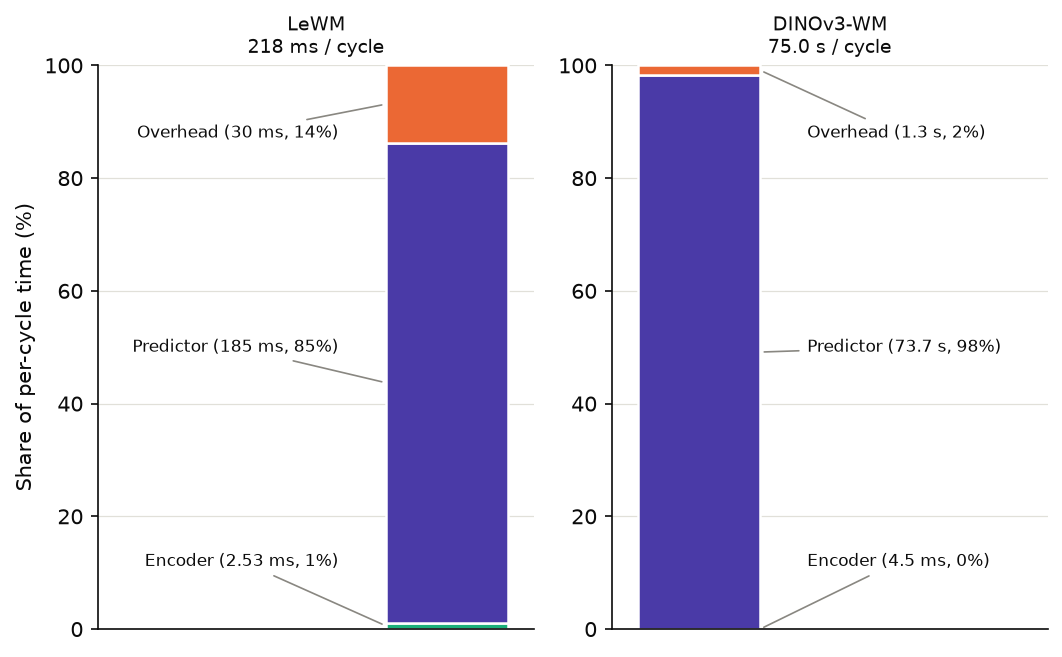
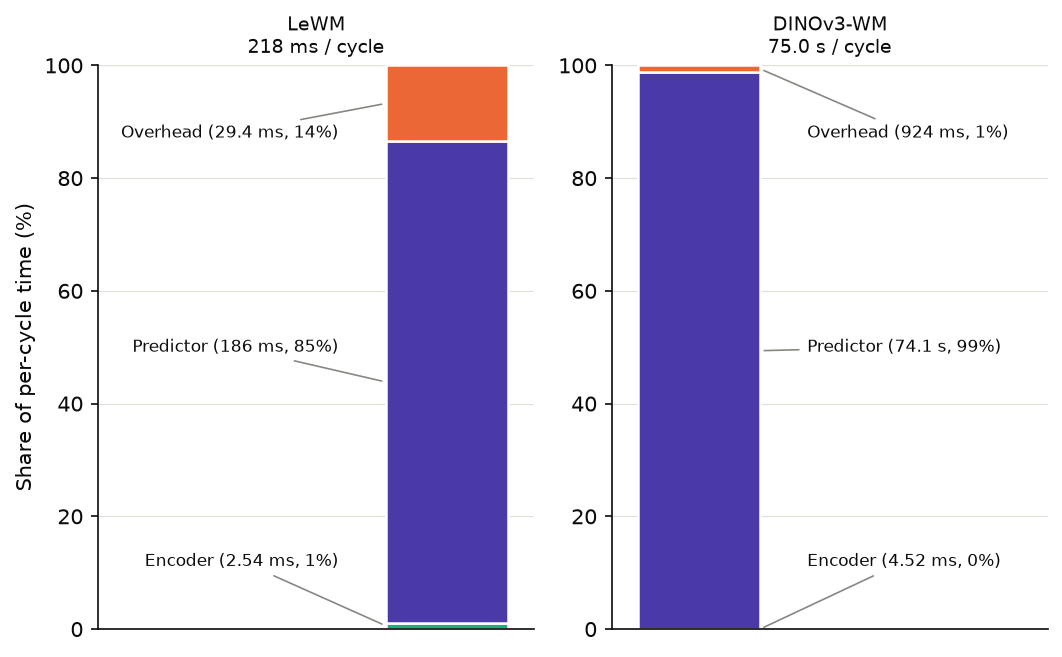
docs(plan): tick Phase 9 — component samples captured, intervals computed, downstream regenerated
Per-component benchmark re-run on both tracks persisted the engine-step
loops' raw samples (latencies.{lewm,dino}.json, 100 values per component
per precision). stats.json extends the intervals to the encode-/predict-step
p50s with a Holm family scoped separately from the per-cycle surface (20/16);
the speed table carries enc/pred CI95 + ac columns and stays split()-parseable
at 19 tokens.

Re-ran src.clock_norm at calibration_method=entropy: the first pass defaulted
to max, leaving the entropy derived tables paired with pre-re-run telemetry.
reports/figs/ refreshed from the render (byte-identical to the volume copies).

Discloses that 13 of 16 component cells reject the lag-1 independence test.

diff --git a/PLAN.md b/PLAN.md
@@ -671,7 +671,7 @@ unchanged**: `n_latency_iters=100` timed, `warmup=10` dropped, same batches and 
   → verify: recorded in SPEC §Interface Contracts + `docs/architecture.md` §12 **before** any component
   interval is written (`src.stats` docstring lands with the compute step below). (Signed off 2026-08-06.)
 
-- [ ] 🟢 **Capture the raw component samples.** `src/benchmark.py::benchmark` returns
+- [x] 🟢 **Capture the raw component samples.** `src/benchmark.py::benchmark` returns
   `(BenchResult, ComponentSamples)` — `_time_loop` already builds the lists; stop discarding them.
   `ComponentSamples` + the `Benchmark` Protocol arity in `src/interfaces.py`; `BenchResult` unchanged.
   `_percentiles_ms` computes on `float64` to match `report._percentile_ms` exactly. `src/smoke.py`
@@ -682,7 +682,7 @@ unchanged**: `n_latency_iters=100` timed, `warmup=10` dropped, same batches and 
   → verify (✔): each component vector is `n_iters` long with the warm-up iters excluded; the
   returned p50 equals `report._percentile_ms(sample, 0.5)` (the anti-drift guard).
 
-- [ ] 🟢 **Persist them.** `src/study.py::dump_track_latencies` writes
+- [x] 🟢 **Persist them.** `src/study.py::dump_track_latencies` writes
   `latencies.<track>.json` beside `results.<track>.json` — `{meta: {track, n_latency_iters, warmup,
   calibration_method, seed, written}, latencies: {precision: {encode_ms: [...], predict_ms: [...]}}}` —
   merged **per precision** with `dump_track_results`' no-clobber discipline, called BEFORE rendering.
@@ -693,7 +693,7 @@ unchanged**: `n_latency_iters=100` timed, `warmup=10` dropped, same batches and 
   → verify (✔): round-trips through `stats.load_component_latencies`; a later single-precision run
   preserves the other precisions; `results.<track>.json` schema unchanged.
 
-- [ ] 🟢 **`src/stats.py::compute_components`.** Per (track, precision, component): `order_statistic_ci`
+- [x] 🟢 **`src/stats.py::compute_components`.** Per (track, precision, component): `order_statistic_ci`
   + `dwass_permutation_test` over the stored vector — existing helpers, no new estimator. Own Holm
   family, separate from the per-cycle one. New top-level `points_components` section
   (`[track][precision][encode|predict]`, method-free); `points` untouched. CLI auto-discovers
@@ -710,7 +710,7 @@ unchanged**: `n_latency_iters=100` timed, `warmup=10` dropped, same batches and 
   section (pins the per-surface ruling); every component point records its n, both p-values, the
   ranks/coverage and the seed.
 
-- [ ] 🟢 **Render on the speed table.** `render_speed_table` gains `enc_p50_CI95`, `enc_ac`,
+- [x] 🟢 **Render on the speed table.** `render_speed_table` gains `enc_p50_CI95`, `enc_ac`,
   `pred_p50_CI95`, `pred_ac` beside the existing component columns (reuse `_ci` / `_ac_flag`; every
   cell stays ONE whitespace-delimited token). `_component_stats_lookup` walks `points_components` with
   **no** method fallback. `src.report from=` loads `latencies.*.json` from the source dir.
@@ -732,11 +732,19 @@ unchanged**: `n_latency_iters=100` timed, `warmup=10` dropped, same batches and 
   → verify (✔): every superseded file has an archive copy; `sha256sum sr.json` recorded for the
   post-run comparison.
 
-- [ ] 🖥 **Re-run the per-component benchmark, both tracks:** `uv run python -m src.study
+- [x] 🖥 **Re-run the per-component benchmark, both tracks:** `uv run python -m src.study
   track=<lewm|dino> calibration_method=entropy` (component latency is method-invariant → one pass per
   track; the method is recorded as provenance).
-  → verify: `latencies.<track>.json` on the volume with **100 values per component per built
-  precision**; `sr.json` sha256 unchanged; a fresh `*.benchmark.dmon.log` per precision.
+  → **done (2026-08-07):** both tracks, all four precisions. `latencies.{lewm,dino}.json` carry
+  **100 values per component per precision** (1600 raw values); `meta` records
+  `n_latency_iters=100, warmup=10, calibration_method=entropy, seed=0`.
+  → **`sr.json` re-baselined, not violated:** two LeWM FP8 isolation evals (`enc-fp8+pred-fp16`,
+  `enc-fp16+pred-fp8` @ `entropy`) ran BEFORE the study, so `sr.json` moved
+  `eb78dc8e…` → `b5ad422e…` by that additive merge. `src.study` itself left it byte-unchanged.
+  → **telemetry is method-TAGGED** (`run_tag` = `<track>.<precision>.<method>.benchmark`), so this
+  run wrote NEW `…entropy.benchmark.dmon.log` files; the untagged pre-Phase-9 logs survive beside them.
+  → verify (✔): 100 values per component per built precision; a fresh `*.benchmark.dmon.log` per
+  precision.
 
 - [ ] 🟢 **Regenerate downstream, in order (off-pod).** Component **means** moved, so everything derived
   from them must be rebuilt: (1) `src.stats` → `stats.json` with both interval sections; (2) `src.report
@@ -745,8 +753,19 @@ unchanged**: `n_latency_iters=100` timed, `warmup=10` dropped, same batches and 
   `*_normalized.derived.*` re-harvested from the **new** benchmark telemetry (Phase-7 surfaces (b)/(c)
   read component clocks — stale pairing would normalize new latencies with old clocks); (4) refresh
   `reports/figs/` by re-copying from the render.
-  → verify: `stats.json` carries two family sizes and per-cycle values matching the archived copy;
-  derived tables cite the new telemetry; `reports/figs/` matches the volume copies byte-for-byte.
+  → **done (2026-08-07):** (1) `stats.json` — **20** per-cycle/SR points + **16** component points,
+  Holm families 20 / 16 kept separate (`holm_scope` per surface). (2) speed table widened to
+  `enc_p50_CI95`/`enc_ac`/`pred_p50_CI95`/`pred_ac`, **19 tokens on header and every row**
+  (`split()`-parseable). (3) `src.clock_norm` **re-run at `calibration_method=entropy`** — the first
+  pass defaulted to `max` and wrote `*.derived.max.txt`, leaving the entropy tables stale at the
+  pre-re-run telemetry; the corrected pass refreshed `derived_clocks.json` +
+  `*_normalized.derived.entropy.txt`. (4) `reports/figs/` re-copied, all five `cmp`-clean.
+  → **disclosed:** 13 of 16 component cells REJECT the lag-1 independence test at the unadjusted p
+  (`dino fp32 encode` ac=+0.76, p=2e-05) — flagged `*` in the table, intervals anti-conservative
+  (too narrow). Back-to-back timing loops correlate; what a rejection licenses is OWNER-authored
+  (SPEC §Implementation Boundaries).
+  → verify (✔): two family sizes present; derived tables cite the new telemetry; `reports/figs/`
+  matches the volume copies byte-for-byte.
 
 **Verify:** owner sign-off recorded before any component interval; `latencies.{lewm,dino}.json` on the
 volume with the loops' raw samples; every benchmarked speed-table row carries a component p50 interval
